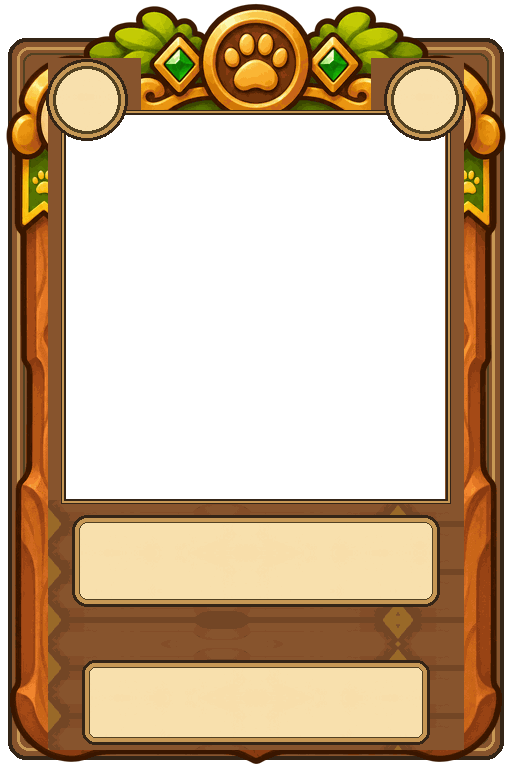
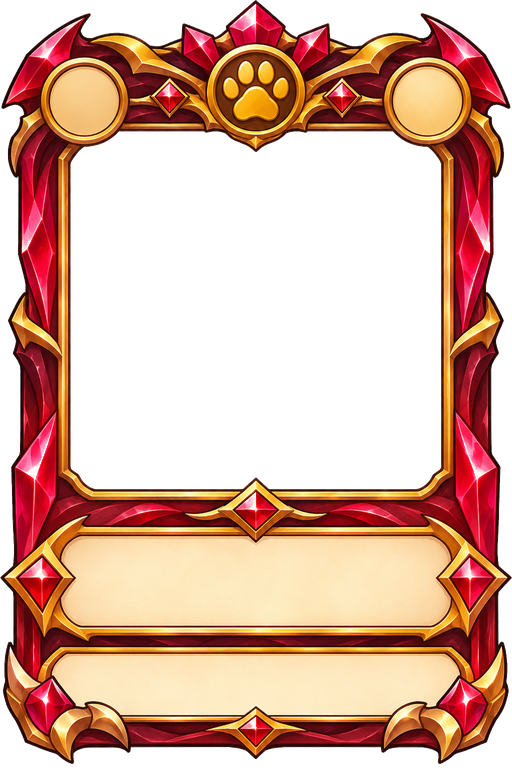
魔物カードの枠をルビー色に差しかえ、穴を埋めて3D用の凹凸の地図を作り直し
Claude-Session: https://claude.ai/code/session_01Lcti3MwFjpKdkAuHXbf3Ja

diff --git a/js/ui/precache.js b/js/ui/precache.js
@@ -1,2 +1,2 @@
-self.CF_CACHE_VERSION="a90b95faf1fe66ab";
+self.CF_CACHE_VERSION="6fe8a0843aedee73";
 self.CF_ASSETS=["index.html","manifest.webmanifest","css/accessibility.css","css/account.css","css/battle.css","css/beast.css","css/card-base.css","css/card-zoom.css","css/chat.css","css/components.css","css/deck.css","css/experience.css","css/finishing-art.css","css/fit.css","css/help-guide.css","css/hologram.css","css/home.css","css/kingdom.css","css/layout.css","css/mana-growth.css","css/materials.css","css/motion.css","css/mp.css","css/polish.css","css/rank-frames.css","css/rarity-assets.css","css/rarity-fx.css","css/settings.css","css/step5.css","css/style.css","css/text-fit.css","css/theme.css","css/tokens.css","css/tutorial.css","css/weather.css","js/game/Card.js","js/game/Castle.js","js/game/Game.js","js/game/Monster.js","js/game/Player.js","js/game/Road.js","js/game/Setup.js","js/game/Soldier.js","js/game/Weather.js","js/game/strategies.js","js/game/visibility.js","js/main.js","js/ui/Accessibility.js","js/ui/Account.js","js/ui/AccountPanel.js","js/ui/Animations.js","js/ui/BattleLayout.js","js/ui/Card3D.js","js/ui/CardGuide.js","js/ui/CardInfo.js","js/ui/CardRelief.js","js/ui/CardZoom.js","js/ui/ChatView.js","js/ui/CollectionView.js","js/ui/Cosmetics.js","js/ui/DebugPanel.js","js/ui/DeckEditor.js","js/ui/DeckPreview.js","js/ui/DeckStore.js","js/ui/HandView.js","js/ui/HelpView.js","js/ui/Hologram.js","js/ui/Home.js","js/ui/LocalSetup.js","js/ui/MatchStats.js","js/ui/MaterialSkin.js","js/ui/MissionView.js","js/ui/Music.js","js/ui/OnlineClient.js","js/ui/ProfileView.js","js/ui/ProgressPanel.js","js/ui/Progression.js","js/ui/RankEmblem.js","js/ui/RankedView.js","js/ui/Renderer.js","js/ui/RoomView.js","js/ui/Session.js","js/ui/Settings.js","js/ui/SocialView.js","js/ui/Sound.js","js/ui/Targeting.js","js/ui/Tutorial.js","js/ui/UpgradePanel.js","js/ui/WeatherView.js","js/ui/art.js","js/ui/cardFrame.js","js/ui/cardView.js","js/ui/config.js","js/ui/handOrder.js","js/ui/look.js","js/ui/motion.js","js/ui/pills.js","js/ui/profileArt.js","js/ui/rarity.js","js/ui/skinArt.js","js/ui/stories.js","js/ui/syncCheck.js","js/ui/text.js","data/cards.json","data/castles.json","data/decks.json","data/gacha.json","data/missions.json","data/modes.json","data/monsters.json","data/profile.json","data/progression.json","data/ranks.json","data/rarities.json","data/rules.json","data/seasons.json","data/shop.json","data/stamps.json","data/upgrades.json","data/weather.json","assets/asset-manifest.json","assets/bg/board-meadow-compact.png","assets/bg/board-meadow.png","assets/bg/board.png","assets/bg/home-castle.png","assets/bg/kingdom-meadow.png","assets/bg/kingdom-valley.png","assets/bg/title-compact.png","assets/bg/title.png","assets/cards/card-absolute-zero.png","assets/cards/card-adapt.png","assets/cards/card-apocalypse.png","assets/cards/card-apprentice-archer.png","assets/cards/card-apprentice-mage.png","assets/cards/card-archer.png","assets/cards/card-archmage.png","assets/cards/card-barrier.png","assets/cards/card-beast-bat.png","assets/cards/card-beast-demon-king.png","assets/cards/card-beast-demon.png","assets/cards/card-beast-dragon.png","assets/cards/card-beast-ghost.png","assets/cards/card-beast-goblin.png","assets/cards/card-beast-golem.png","assets/cards/card-beast-mimic.png","assets/cards/card-beast-skeleton.png","assets/cards/card-beast-slime.png","assets/cards/card-beast-treant.png","assets/cards/card-beast-vampire.png","assets/cards/card-big-shield.png","assets/cards/card-big-thunder.png","assets/cards/card-blessing.png","assets/cards/card-bolt.png","assets/cards/card-cavalry.png","assets/cards/card-coin-pouch.png","assets/cards/card-death-mist.png","assets/cards/card-decoy.png","assets/cards/card-deep-freeze.png","assets/cards/card-dragon-knight.png","assets/cards/card-earth-hammer.png","assets/cards/card-earth-king.png","assets/cards/card-earth-spirit.png","assets/cards/card-fire-king.png","assets/cards/card-fire-spirit.png","assets/cards/card-fireball.png","assets/cards/card-flame-sword.png","assets/cards/card-frost-breath.png","assets/cards/card-frozen-world.png","assets/cards/card-gate.png","assets/cards/card-giant.png","assets/cards/card-glacier.png","assets/cards/card-god-shield.png","assets/cards/card-god-sword.png","assets/cards/card-goddess.png","assets/cards/card-gold-coin.png","assets/cards/card-gold-vein.png","assets/cards/card-great-earth-spirit.png","assets/cards/card-great-fire-spirit.png","assets/cards/card-great-heal.png","assets/cards/card-great-water-spirit.png","assets/cards/card-great-wind-spirit.png","assets/cards/card-heal.png","assets/cards/card-heavy.png","assets/cards/card-hero.png","assets/cards/card-holy-light.png","assets/cards/card-holy-shield.png","assets/cards/card-holy-sword.png","assets/cards/card-infantry.png","assets/cards/card-inferno.png","assets/cards/card-iron-sword.png","assets/cards/card-judgment.png","assets/cards/card-king-treasure.png","assets/cards/card-knight.png","assets/cards/card-longbowman.png","assets/cards/card-mage.png","assets/cards/card-magic-sword.png","assets/cards/card-mana-crystal.png","assets/cards/card-mana-drop.png","assets/cards/card-mana-shard.png","assets/cards/card-mana-spring.png","assets/cards/card-meteor.png","assets/cards/card-minor-heal.png","assets/cards/card-paladin.png","assets/cards/card-plague.png","assets/cards/card-poison-mist.png","assets/cards/card-prayer.png","assets/cards/card-raijin.png","assets/cards/card-reflect.png","assets/cards/card-sage.png","assets/cards/card-sandbag.png","assets/cards/card-scout.png","assets/cards/card-shield.png","assets/cards/card-sky-archer.png","assets/cards/card-sniper.png","assets/cards/card-sorcerer.png","assets/cards/card-spearman.png","assets/cards/card-starfall.png","assets/cards/card-steel-shield.png","assets/cards/card-stone-wall.png","assets/cards/card-thief.png","assets/cards/card-thunder.png","assets/cards/card-toxic-rain.png","assets/cards/card-treasure.png","assets/cards/card-venom.png","assets/cards/card-wall.png","assets/cards/card-water-king.png","assets/cards/card-water-spear.png","assets/cards/card-water-spirit.png","assets/cards/card-weather-call.png","assets/cards/card-wind-bow.png","assets/cards/card-wind-king.png","assets/cards/card-wind-spirit.png","assets/cards/card-world-tree-dew.png","assets/cards/frame-beast.png","assets/cards/frame-common.png","assets/cards/frame-defense.png","assets/cards/frame-epic.png","assets/cards/frame-legendary.png","assets/cards/frame-rare.png","assets/cards/frame-soldier.png","assets/cards/frame-special.png","assets/cards/frame-spell.png","assets/cards/frame-uncommon.png","assets/cards/frame-weapon.png","assets/cards/relief/frame-beast-raised.png","assets/cards/relief/frame-beast-relief.png","assets/cards/relief/frame-common-raised.png","assets/cards/relief/frame-common-relief.png","assets/cards/relief/frame-defense-raised.png","assets/cards/relief/frame-defense-relief.png","assets/cards/relief/frame-epic-raised.png","assets/cards/relief/frame-epic-relief.png","assets/cards/relief/frame-legendary-raised.png","assets/cards/relief/frame-legendary-relief.png","assets/cards/relief/frame-rare-raised.png","assets/cards/relief/frame-rare-relief.png","assets/cards/relief/frame-soldier-raised.png","assets/cards/relief/frame-soldier-relief.png","assets/cards/relief/frame-special-raised.png","assets/cards/relief/frame-special-relief.png","assets/cards/relief/frame-spell-raised.png","assets/cards/relief/frame-spell-relief.png","assets/cards/relief/frame-uncommon-raised.png","assets/cards/relief/frame-uncommon-relief.png","assets/cards/relief/frame-weapon-raised.png","assets/cards/relief/frame-weapon-relief.png","assets/cards/window-beast.png","assets/cards/window-common.png","assets/cards/window-epic.png","assets/cards/window-legendary.png","assets/cards/window-rare.png","assets/cards/window-special.png","assets/cards/window-uncommon.png","assets/castles/barracks-blue-damaged-1.png","assets/castles/barracks-blue-damaged-2.png","assets/castles/barracks-blue-damaged-3.png","assets/castles/barracks-blue.png","assets/castles/barracks-orange-damaged-1.png","assets/castles/barracks-orange-damaged-2.png","assets/castles/barracks-orange-damaged-3.png","assets/castles/barracks-orange.png","assets/castles/castle-blue-damaged-1.png","assets/castles/castle-blue-damaged-2.png","assets/castles/castle-blue-damaged-3.png","assets/castles/castle-blue-ruined.png","assets/castles/castle-blue.png","assets/castles/castle-orange-damaged-1.png","assets/castles/castle-orange-damaged-2.png","assets/castles/castle-orange-damaged-3.png","assets/castles/castle-orange-ruined.png","assets/castles/castle-orange.png","assets/castles/fortress-blue-damaged-1.png","assets/castles/fortress-blue-damaged-2.png","assets/castles/fortress-blue-damaged-3.png","assets/castles/fortress-blue.png","assets/castles/fortress-orange-damaged-1.png","assets/castles/fortress-orange-damaged-2.png","assets/castles/fortress-orange-damaged-3.png","assets/castles/fortress-orange.png","assets/castles/tower-blue-damaged-1.png","assets/castles/tower-blue-damaged-2.png","assets/castles/tower-blue-damaged-3.png","assets/castles/tower-blue.png","assets/castles/tower-orange-damaged-1.png","assets/castles/tower-orange-damaged-2.png","assets/castles/tower-orange-damaged-3.png","assets/castles/tower-orange.png","assets/fx/dust.png","assets/fx/evolve-1.png","assets/fx/evolve-2.png","assets/fx/evolve-3.png","assets/fx/explosion.png","assets/fx/fireball.png","assets/fx/fusion.png","assets/fx/heal.png","assets/fx/ice.png","assets/fx/lightning.png","assets/fx/lucky-reward.png","assets/fx/poison.png","assets/profiles/archer.png","assets/profiles/hero.png","assets/profiles/infantry.png","assets/profiles/knight.png","assets/profiles/mage.png","assets/profiles/spearman.png","assets/ranks/rank-bronze.png","assets/ranks/rank-champion.png","assets/ranks/rank-diamond.png","assets/ranks/rank-gold.png","assets/ranks/rank-iron.png","assets/ranks/rank-master.png","assets/ranks/rank-platinum.png","assets/ranks/rank-silver.png","assets/skins/back-crimson.png","assets/skins/back-forest.png","assets/skins/back-gold.png","assets/skins/back-royal.png","assets/skins/castle-crimson.png","assets/skins/castle-forest.png","assets/skins/castle-frost.png","assets/skins/castle-gold.png","assets/skins/castle-shadow.png","assets/skins/fx-azure.png","assets/skins/fx-emerald.png","assets/skins/fx-gold.png","assets/skins/fx-violet.png","assets/skins/icon-dragon-knight.png","assets/skins/icon-giant.png","assets/skins/icon-paladin.png","assets/skins/icon-sage.png","assets/skins/icon-scout.png","assets/skins/icon-sniper.png","assets/skins/title-hunter.png","assets/skins/title-legend.png","assets/skins/title-lucky.png","assets/skins/title-rookie.png","assets/skins/title-wall.png","assets/skins/unit-crimson.png","assets/skins/unit-forest.png","assets/skins/unit-frost.png","assets/skins/unit-gold.png","assets/skins/unit-royal.png","assets/skins/unit-shadow.png","assets/skins/win-aurora.png","assets/skins/win-gold.png","assets/skins/win-sakura.png","assets/ui/app-icon-192.png","assets/ui/app-icon-512.png","assets/ui/app-icon-maskable-512.png","assets/ui/apple-touch-icon.png","assets/ui/banner-win.png","assets/ui/btn-blue.png","assets/ui/btn-cream.png","assets/ui/btn-green.png","assets/ui/btn-orange.png","assets/ui/btn-red.png","assets/ui/btn-round.png","assets/ui/button-end-turn.png","assets/ui/card-back.png","assets/ui/home/casual.png","assets/ui/home/catalog.png","assets/ui/home/deck.png","assets/ui/home/friend.png","assets/ui/home/gacha.png","assets/ui/home/mission.png","assets/ui/home/profile.png","assets/ui/home/rank.png","assets/ui/home/ranking.png","assets/ui/home/settings.png","assets/ui/home/shop.png","assets/ui/home/skin.png","assets/ui/icon-coin.png","assets/ui/icon-earth.png","assets/ui/icon-fire.png","assets/ui/icon-heart.png","assets/ui/icon-help.png","assets/ui/icon-kind-defense.png","assets/ui/icon-kind-soldier.png","assets/ui/icon-kind-spell.png","assets/ui/icon-kind-weapon.png","assets/ui/icon-kind-wild.png","assets/ui/icon-luck.png","assets/ui/icon-mode-local.png","assets/ui/icon-mode-online.png","assets/ui/icon-mode-solo.png","assets/ui/icon-mp.png","assets/ui/icon-rarity-common.png","assets/ui/icon-rarity-epic.png","assets/ui/icon-rarity-legendary.png","assets/ui/icon-rarity-rare.png","assets/ui/icon-rarity-special.png","assets/ui/icon-rarity-uncommon.png","assets/ui/icon-water.png","assets/ui/icon-wind.png","assets/ui/kingdom-crest.png","assets/ui/kingdom-parchment.png","assets/ui/kingdom-platform.png","assets/ui/kingdom-primary.png","assets/ui/kingdom-secondary.png","assets/ui/kingdom-wood.png","assets/ui/logo.png","assets/ui/natural/danger-40-left.png","assets/ui/natural/danger-40-middle.png","assets/ui/natural/danger-40-right.png","assets/ui/natural/danger-44-left.png","assets/ui/natural/danger-44-middle.png","assets/ui/natural/danger-44-right.png","assets/ui/natural/danger-72-left.png","assets/ui/natural/danger-72-middle.png","assets/ui/natural/danger-72-right.png","assets/ui/natural/frame.png","assets/ui/natural/leather-tile.png","assets/ui/natural/neutral-40-left.png","assets/ui/natural/neutral-40-middle.png","assets/ui/natural/neutral-40-right.png","assets/ui/natural/neutral-44-left.png","assets/ui/natural/neutral-44-middle.png","assets/ui/natural/neutral-44-right.png","assets/ui/natural/neutral-72-left.png","assets/ui/natural/neutral-72-middle.png","assets/ui/natural/neutral-72-right.png","assets/ui/natural/neutral-wide-full.png","assets/ui/natural/oak-tile.png","assets/ui/natural/paper-tile.png","assets/ui/natural/primary-40-left.png","assets/ui/natural/primary-40-middle.png","assets/ui/natural/primary-40-right.png","assets/ui/natural/primary-44-left.png","assets/ui/natural/primary-44-middle.png","assets/ui/natural/primary-44-right.png","assets/ui/natural/primary-72-left.png","assets/ui/natural/primary-72-middle.png","assets/ui/natural/primary-72-right.png","assets/ui/natural/primary-wide-full.png","assets/ui/natural/round-neutral.png","assets/ui/natural/round-selected.png","assets/ui/natural/selected-40-left.png","assets/ui/natural/selected-40-middle.png","assets/ui/natural/selected-40-right.png","assets/ui/natural/selected-44-left.png","assets/ui/natural/selected-44-middle.png","assets/ui/natural/selected-44-right.png","assets/ui/natural/selected-72-left.png","assets/ui/natural/selected-72-middle.png","assets/ui/natural/selected-72-right.png","assets/ui/panel-parchment.png","assets/ui/result-defeat.png","assets/ui/result-victory.png","assets/ui/sign-hp.png","assets/ui/stamps/again.png","assets/ui/stamps/gg.png","assets/ui/stamps/go.png","assets/ui/stamps/hello.png","assets/ui/stamps/nice.png","assets/ui/stamps/ouch.png","assets/ui/stamps/scared.png","assets/ui/stamps/smug.png","assets/ui/stamps/sorry.png","assets/ui/stamps/thanks.png","assets/ui/stamps/think.png","assets/ui/stamps/yay.png","assets/ui/tap-plate.png","assets/ui/title-castle-blue.png","assets/ui/title-castle-orange.png","assets/ui/title-infantry-orange.png","assets/ui/title-knight-blue.png","assets/ui/weather-coin-rain.png","assets/ui/weather-fog.png","assets/ui/weather-heavy-rain.png","assets/ui/weather-rain.png","assets/ui/weather-sandstorm.png","assets/ui/weather-storm.png","assets/ui/weather-sunny.png","assets/units/apprentice-archer-blue.png","assets/units/apprentice-archer-orange.png","assets/units/apprentice-mage-blue.png","assets/units/apprentice-mage-orange.png","assets/units/archer-blue.png","assets/units/archer-orange.png","assets/units/archmage-blue.png","assets/units/archmage-orange.png","assets/units/cavalry-blue.png","assets/units/cavalry-orange.png","assets/units/dragon-knight-blue.png","assets/units/dragon-knight-orange.png","assets/units/earth-spirit.png","assets/units/fire-spirit.png","assets/units/giant-blue.png","assets/units/giant-orange.png","assets/units/great-earth-spirit.png","assets/units/great-fire-spirit.png","assets/units/great-water-spirit.png","assets/units/great-wind-spirit.png","assets/units/heavy-blue.png","assets/units/heavy-orange.png","assets/units/hero-blue.png","assets/units/hero-orange.png","assets/units/infantry-blue.png","assets/units/infantry-orange.png","assets/units/knight-blue.png","assets/units/knight-orange.png","assets/units/longbowman-blue.png","assets/units/longbowman-orange.png","assets/units/mage-blue.png","assets/units/mage-orange.png","assets/units/monster-bat.png","assets/units/monster-demon-king.png","assets/units/monster-demon.png","assets/units/monster-dragon.png","assets/units/monster-ghost.png","assets/units/monster-goblin.png","assets/units/monster-golem.png","assets/units/monster-mimic.png","assets/units/monster-skeleton.png","assets/units/monster-slime.png","assets/units/monster-treant.png","assets/units/monster-vampire.png","assets/units/paladin-blue.png","assets/units/paladin-orange.png","assets/units/sage-blue.png","assets/units/sage-orange.png","assets/units/scout-blue.png","assets/units/scout-orange.png","assets/units/sky-archer-blue.png","assets/units/sky-archer-orange.png","assets/units/sniper-blue.png","assets/units/sniper-orange.png","assets/units/sorcerer-blue.png","assets/units/sorcerer-orange.png","assets/units/spearman-blue.png","assets/units/spearman-orange.png","assets/units/water-spirit.png","assets/units/wind-spirit.png"];

diff --git a/js/ui/build-card-relief.js b/js/ui/build-card-relief.js
@@ -41,7 +41,7 @@ const FRAMES = {
   spell:     { base: { metal: .1, smooth: .45 }, gold: { metal: .9, smooth: .8 }, gemHue: [255, 300], raised: [[192, 12, 352, 194], ...KIND_GEMS], paper: { name: [.14, .86, .78], medals: [] } },
   weapon:    { base: { metal: .55, smooth: .6 }, gold: { metal: .9, smooth: .82 }, silver: { metal: .9, smooth: .85 }, gemHue: [340, 15], raised: [[164, 28, 362, 204], ...KIND_GEMS], paper: { name: [.14, .86, .78], medals: [] } },
   defense:   { base: { metal: .75, smooth: .72 }, gold: { metal: .9, smooth: .82 }, silver: { metal: .85, smooth: .8 }, gemHue: [195, 250], raised: [[184, 24, 334, 206], ...KIND_GEMS], paper: { name: [.14, .86, .78], medals: [] } },
-  beast:     { base: { metal: 0, smooth: .25 }, gold: { metal: .85, smooth: .78 }, silver: { metal: .8, smooth: .7 }, organic: [70, 140], gemHue: [120, 170], gemMinSat: .5, raised: [[159, 0, 353, 114]], paper: SHARED_PARCHMENT },
+  beast:     { base: { metal: .1, smooth: .6 }, gold: { metal: .9, smooth: .82 }, silver: { metal: .8, smooth: .7 }, gemHue: [335, 20], gemMinSat: .45, raised: [[170, 0, 342, 110], [0, 10, 60, 120], [452, 10, 512, 120]], paper: SHARED_PARCHMENT },
 };
 
 // ---------- PNG（8bit・インターレースなし） ----------

diff --git a/assets/CREDITS.md b/assets/CREDITS.md
@@ -488,3 +488,5 @@ OpenAI ImageGen。利用条件は OpenAI Terms of Use（生成出力）。`style
 ## プロフィールの基本アイコン（2026-11-19）
 
 - `profiles/{infantry,spearman,knight,archer,mage,hero}.png` — OpenAI ImageGen、OpenAI Terms of Use（生成出力）。`style-reference.png` を参照し、生成原本 `exec-8e2458c1-3ca0-485e-93ba-17aa6f3f9b98.png` から切り出した透過PNG。
+
+- 2026-11-19：`cards/frame-beast.png` を、ルビー色の新しい枠（OpenAI画像生成。上記OpenAI規約・AI生成）に差しかえた。枠の中の小さな透明の穴（白のハイライトが抜けた所・約90か所）は白で埋めた（絵の窓だけ透明のまま）。`cards/relief/frame-beast-*.png` は `node js/ui/build-card-relief.js` で作り直した（3Dの拡大表示用）。
